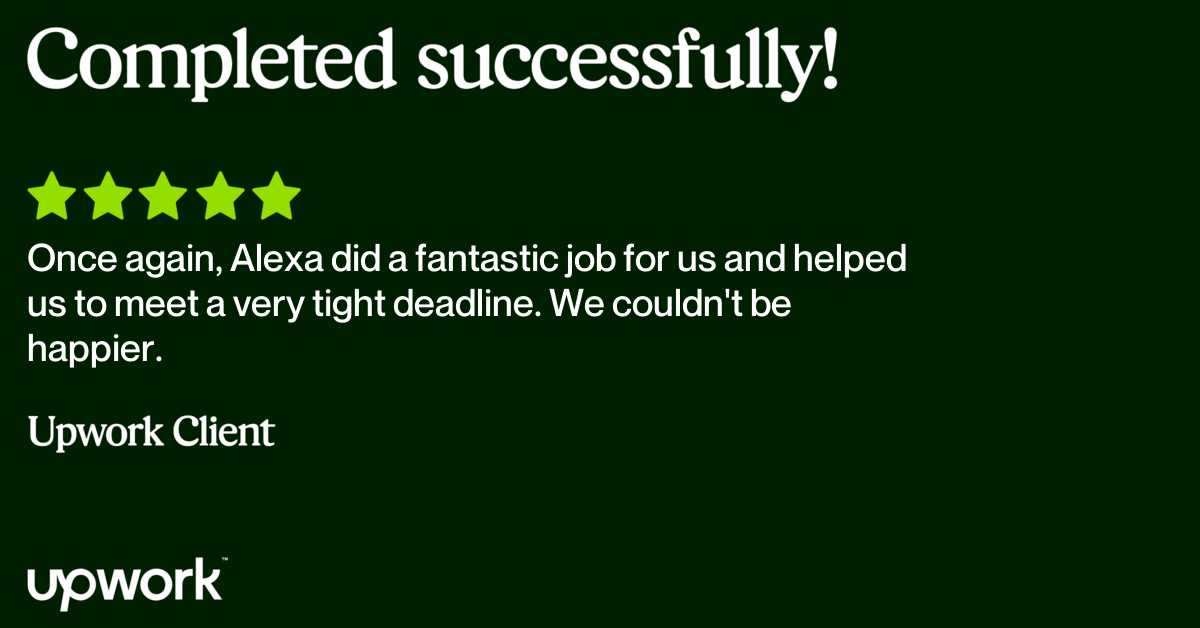
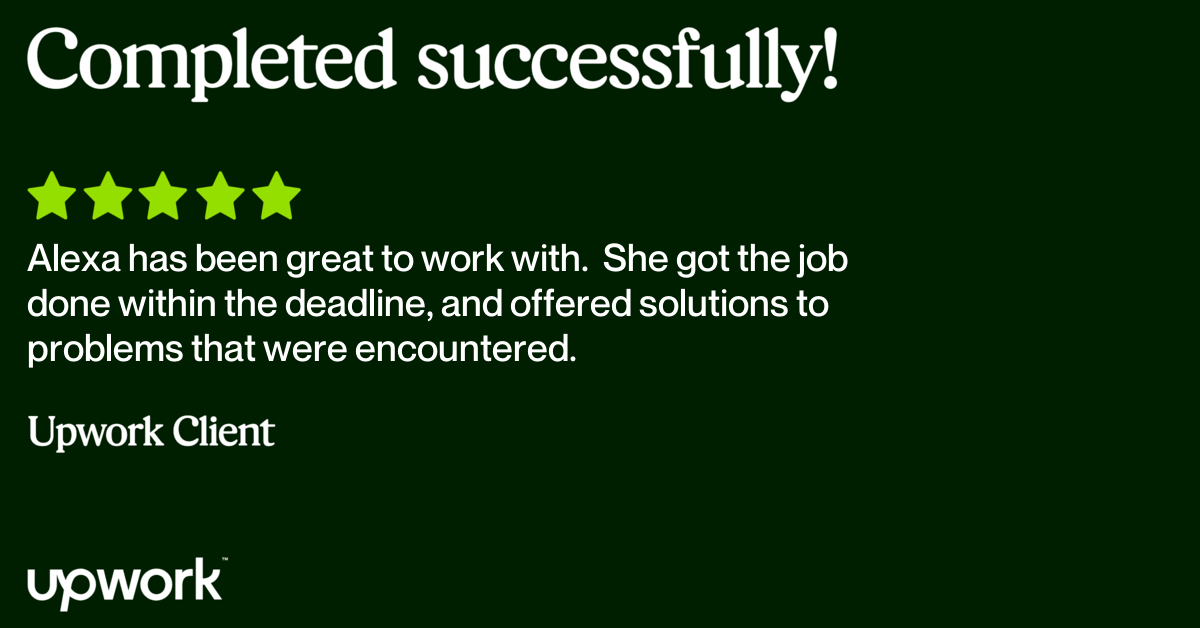
Updated alignment

Changed region(s): [[0.0, 0.3631, 0.7708, 0.5748]]

diff --git a/index.html b/index.html
@@ -47,58 +47,72 @@
 		<!-- Main content start -->
 		<div class="justify-content-center text-center">
 			<!-- Landing page start -->
-			<div class="row pt-5 justify-content-center align-items-center min-vh-100" id="landing">
-				<img class="rounded-circle d-inline-block p-2 col-sm-4 col-md-6 col-lg-2 col-xl-2" src="./images/profile2.jpg">
+			<div id="landing" class="p-5">
+				<div class="row pt-5 justify-content-center align-items-center">
+					<img class="rounded-circle d-inline-block p-2 col-md-8 col-lg-2" src="./images/profile2.jpg">
 
-				<div class="col-sm-12 col-md-12 col-lg-4 col-xl-4 justify-content-center">
-					<h1>Alexa Conopio</h1>
-					<h3>Front End Developer</h3>
-					<p>Graduated from University of the Philippines Los Banos. Previous employers include IBM Business Services and JP Morgan Chase. Upwork freelancer since 2010. Zuitt Bootcamp student.</p>
+					<div class="col-md-8 col-lg-4 justify-content-center">
+						<h1>Alexa Conopio</h1>
+						<h3>Front End Developer</h3>
+						<p>Graduated from University of the Philippines Los Banos. Previous employers include IBM Business Services and JP Morgan Chase. Upwork freelancer since 2010. Zuitt Bootcamp student.</p>
+					</div>	
 				</div>
-				<!-- carousel start -->
+				<!-- Carousel Section start -->
 				<div class="row d-none d-md-block mt-md-5 justify-content-center">
-					<div class="offset-xl-3 col-xl-6">
-						<div id="carouselExampleIndicators" class="carousel slide" data-ride="carousel">
-						  <ol class="carousel-indicators">
-						    <li data-target="#carouselExampleIndicators" data-slide-to="0" class="active"></li>
-						    <li data-target="#carouselExampleIndicators" data-slide-to="1"></li>
-						    <li data-target="#carouselExampleIndicators" data-slide-to="2"></li>
-						  </ol>
-						  <div class="carousel-inner">
-						    <div class="carousel-item active">
-						      <img src="./images/feedback1.png" class="d-block w-100" alt="...">
-						    </div>
-						    <div class="carousel-item">
-						      <img src="./images/feedback2.png" class="d-block w-100" alt="...">
-						    </div>
-						    <div class="carousel-item">
-						      <img src="./images/feedback3.png" class="d-block w-100" alt="...">
-						    </div>
-						  </div>
-						  <button class="carousel-control-prev" type="button" data-target="#carouselExampleIndicators" data-slide="prev">
-						    <span class="carousel-control-prev-icon" aria-hidden="true"></span>
-						    <span class="sr-only">Previous</span>
-						  </button>
-						  <button class="carousel-control-next" type="button" data-target="#carouselExampleIndicators" data-slide="next">
-						    <span class="carousel-control-next-icon" aria-hidden="true"></span>
-						    <span class="sr-only">Next</span>
-						  </button>
-						</div>
-					</div>					
+				  <div class="offset-xl-3 col-xl-6">
+				    <div id="carouselExampleCaptions" class="carousel slide" data-ride="carousel">
+				      <ol class="carousel-indicators">
+				        <li data-target="#carouselExampleCaptions" data-slide-to="0" class="active"></li>
+				        <li data-target="#carouselExampleCaptions" data-slide-to="1"></li>
+				        <li data-target="#carouselExampleCaptions" data-slide-to="2"></li>
+				      </ol>
+				      <div class="carousel-inner">
+				        <div class="carousel-item active">
+				          <img src="./images/feedback3.png" class="d-block w-100" alt="...">
+				          <div class="carousel-caption d-none d-md-block">
+				            <h5></h5>
+				            <p></p>
+				          </div>
+				        </div>
+				        <div class="carousel-item">
+				          <img src="./images/feedback1.png" class="d-block w-100" alt="...">
+				          <div class="carousel-caption d-none d-md-block">
+				            <h5></h5>
+				            <p></p>
+				          </div>
+				        </div>
+				        <div class="carousel-item">
+				          <img src="./images/feedback2.png" class="d-block w-100" alt="...">
+				          <div class="carousel-caption d-none d-md-block">
+				            <h5></h5>
+				            <p></p>
+				          </div>
+				        </div>
+				      </div>
+				      <button class="carousel-control-prev" type="button" data-target="#carouselExampleCaptions" data-slide="prev">
+				        <span class="carousel-control-prev-icon" aria-hidden="true"></span>
+				        <span class="sr-only">Previous</span>
+				      </button>
+				      <button class="carousel-control-next" type="button" data-target="#carouselExampleCaptions" data-slide="next">
+				        <span class="carousel-control-next-icon" aria-hidden="true"></span>
+				        <span class="sr-only">Next</span>
+				      </button>
+				    </div>
+				  </div>
+
 				</div>
-				<!-- carousel end -->
+				<!-- Carousel Section end -->
 			</div>
 			<!-- Landing page end -->
 
 			<!-- Projects start -->
-			<div class="min-vh-75 p-5" id="projects">
+			<div class="p-5" id="projects">
 				<h2 class="mb-2">Projects</h2>
 
 				<!-- Projects container start -->
 				<div class="row justify-content-center text-light">
 					<!-- upwork profile start-->
-					<!-- <div class="pt-5 justify-content-center"> -->
-						<div class="card col-lg-4 col-md-8 col-sm-8 pt-2 mb-2" style="width: 18rem;">
+						<div class="card col-lg-3 col-md-8 col-sm-8 pt-2 mb-2" style="width: 18rem;">
 						  <img src="./images/laptop1.jpg" class="card-img-top" alt="...">
 						  <div class="card-body">
 						    <h5 class="card-title">Upwork Profile</h5>
@@ -106,107 +120,102 @@
 						    <a href="https://www.upwork.com/freelancers/~01a163c79419fee80e" class="btn btn-primary" target="blank">Link</a>
 						  </div>
 						</div>
-					<!-- </div> -->
 					<!-- upwork profile end -->
 					<!-- Tribute Page start -->
-					<!-- <div class="col-lg-4 col-md-12 pt-5 justify-content-center"> -->
-						<div class="card col-lg-4 col-md-8 col-sm-8 pt-2 mb-2" style="width: 18rem;">
+						<div class="card col-lg-3 col-md-8 col-sm-8 pt-2 mb-2" style="width: 18rem;">
 						  <img src="./images/peggy.jpg" class="card-img-top" alt="...">
 						  <div class="card-body">
 						    <h5 class="card-title">Tribute: Peggy Whitson</h5>
-						    <p class="card-text">FCC project</p>
+						    <p class="card-text">Freecodecamp project</p>
 						    <a href="https://codepen.io/aconopio/full/aLJbNg" class="btn btn-primary" target="blank">Link</a>
 						  </div>
 						</div>
-					<!-- </div> -->
 					<!-- Tribute Page end -->
 					<!-- Product Landing Page start -->
-					<!-- <div class="col-lg-4 col-md-12 pt-5 justify-content-center mb-sm-2"> -->
-						<div class="card col-lg-4 col-md-8 col-sm-8 pt-2 mb-2" style="width: 18rem;">
+						<div class="card col-lg-3 col-md-8 col-sm-8 pt-2 mb-2" style="width: 18rem;">
 						  <img src="./images/gym.jpg" class="card-img-top" alt="...">
 						  <div class="card-body">
 						    <h5 class="card-title">Product Landing Page</h5>
-						    <p class="card-text">FCC project</p>
+						    <p class="card-text">Freecodecamp project</p>
 						    <a href="https://codepen.io/aconopio/full/xoXxoa" class="btn btn-primary" target="blank">Link</a>
 						  </div>
 						</div>
-					<!-- </div> -->
 					<!-- Product Landing Page end -->
 				</div>
 				<!-- Projects container end -->
 			</div>
 			<!-- Project end -->
 			<!-- Tools start-->
-			<div class="min-vh-75 container-fluid" id="tools">
+			<div class="min-vh-75 container-fluid p-5" id="tools">
 				<!-- Core Tools Section Start -->
 				<h3>Tools</h3>
 				<div>
 				    <div>
-				        <img width="150" src="images/logo-html5.png"/>
+				        <img class="logo" src="images/logo-html5.png"/>
 				    </div>
 				    <div>
-				        <img width="150" src="images/logo-css3.png"/>
-				        <img width="150" src="images/logo-javascript.png"/>
+				        <img class="logo" src="images/logo-css3.png"/>
+				        <img class="logo" src="images/logo-javascript.png"/>
 				    </div>
 				</div>
 				<!-- Core Tools Section End -->
 			</div>
 			<!-- Tools end -->
-			<!-- Cotact Form start -->
-			<div>
-				<!-- Forms start -->
-				<div id="contact" class="text-light pt-3 container-fluid">
-				  <h2>Contact Me</h2>
-				    <div class="row p-2 p-md-5 justify-content-center">
-				        <div id="formcontainer" class="p-3 justify-content-center col-sm-12 col-md-8 col-lg-8 col-xl-4">
-				          <form>
-				            <div class="form-group">
-				              <label for="name">Name</label>
-				              <input type="text" class="form-control" id="name" placeholder="Your Name">
-				            </div>
-				            <div class="form-group">
-				              <label for="email">Email address</label>
-				              <input type="email" class="form-control" id="email" placeholder="name@example.com">
-				            </div>
-				            <div class="form-group">
-				              <label for="phone">Contact Number</label>
-				              <input type="number" class="form-control" id="phone" placeholder="+63 900 000 0000">
-				            </div>
-				            <div class="form-group">
-				              <label for="message">Message</label>
-				              <textarea class="form-control" id="message" rows="3"></textarea>
-				            </div>
-				            <!-- Button trigger modal -->
-				            <button type="button" class="btn btn-dark" data-toggle="modal" data-target="#exampleModal">
-				              Send
-				            </button>
+			<!-- Contact start -->
+			<div id="contact" class="text-light p-3 container-fluid">
+				<h2>Contact Me</h2>				
+				<div class="row justify-content-center">
+					    <!-- Form start -->
+					    <div class="col-md-6">
+					        <div id="formcontainer" class="p-3 justify-content-center">
+					          <form>
+					            <div class="form-group">
+					              <label for="name">Name</label>
+					              <input type="text" class="form-control" id="name" placeholder="Your Name">
+					            </div>
+					            <div class="form-group">
+					              <label for="email">Email address</label>
+					              <input type="email" class="form-control" id="email" placeholder="name@example.com">
+					            </div>
+					            <div class="form-group">
+					              <label for="phone">Contact Number</label>
+					              <input type="number" class="form-control" id="phone" placeholder="+63 900 000 0000">
+					            </div>
+					            <div class="form-group">
+					              <label for="message">Message</label>
+					              <textarea class="form-control" id="message" rows="3"></textarea>
+					            </div>
+					            <!-- Button trigger modal -->
+					            <button type="button" class="btn btn-dark" data-toggle="modal" data-target="#exampleModal">
+					              Send
+					            </button>
 
-				            <!-- Modal -->
-				            <div class="modal fade text-dark" id="exampleModal" tabindex="-1" aria-labelledby="exampleModalLabel" aria-hidden="true">
-				              <div class="modal-dialog">
-				                <div class="modal-content">
-				                  <div class="modal-header">
-				                    <h5 class="modal-title" id="exampleModalLabel">Thank you!</h5>
-				                    <button type="button" class="close" data-dismiss="modal" aria-label="Close">
-				                      <span aria-hidden="true">&times;</span>
-				                    </button>
-				                  </div>
-				                  <div class="modal-body">
-				                    Message Sent
-				                  </div>
-				                  <div class="modal-footer">
-				                    <button type="button" class="btn btn-secondary" data-dismiss="modal">Close</button>
-				                  </div>
-				                </div>
-				              </div>
-				            </div>
-				          </form>
-				        </div>
-				    </div>
-				</div>
-				<!-- Forms end-->
-			</div>
-			<!-- Contact Form end -->
+					            <!-- Modal -->
+					            <div class="modal fade text-dark" id="exampleModal" tabindex="-1" aria-labelledby="exampleModalLabel" aria-hidden="true">
+					              <div class="modal-dialog">
+					                <div class="modal-content">
+					                  <div class="modal-header">
+					                    <h5 class="modal-title" id="exampleModalLabel">Thank you!</h5>
+					                    <button type="button" class="close" data-dismiss="modal" aria-label="Close">
+					                      <span aria-hidden="true">&times;</span>
+					                    </button>
+					                  </div>
+					                  <div class="modal-body">
+					                    Message Sent
+					                  </div>
+					                  <div class="modal-footer">
+					                    <button type="button" class="btn btn-secondary" data-dismiss="modal">Close</button>
+					                  </div>
+					                </div>
+					              </div>
+					            </div>
+					          </form>
+					        </div>
+					    </div>
+					    <!-- Form end-->
+					</div>  						
+			</div>						
+			<!-- Contact end -->
 		</div>		
 
 		<!-- Main content end -->

diff --git a/styles/style.css b/styles/style.css
@@ -7,9 +7,14 @@
 
 #landing{
 	background-color: #A3CEF1;
-	/*background-image:url("../images/city2.jpg");
-	background-size: cover;
-	height: 100vh;*/
+}
+
+#projects{
+	/*background-color: blanchedalmond;*/
+	}
+
+#tools{
+	background-color: #A3CEF1;
 }
 
 .navbar{
@@ -26,4 +31,8 @@
 
 #formcontainer{
 	background-color: #6096BA;
+}
+
+.logo{
+	width: 150;
 }
